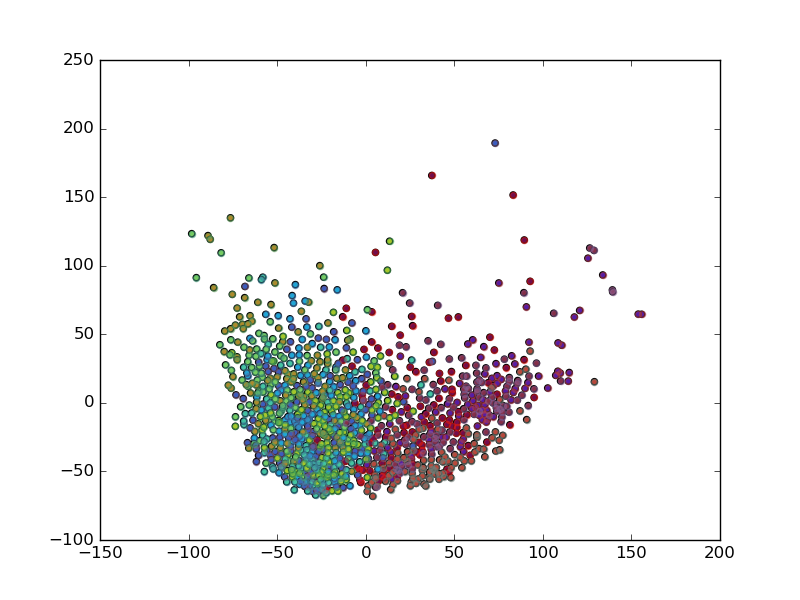
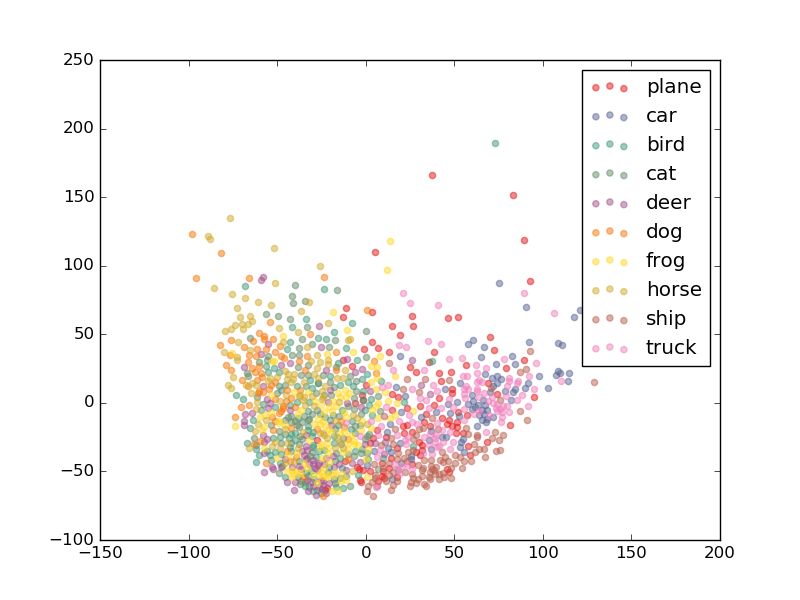
merge

diff --git a/practical_3/train_model.py b/practical_3/train_model.py
@@ -313,30 +313,28 @@ def feature_extraction():
         print("Calculating TSNE")
         tnse = TSNE(n_components=2, init='pca', random_state=0)
         pca = tnse.fit_transform(fcl2)
-        print(pca.shape)
-        print(logits.shape)        
         prediction = np.argmax(logits, axis=1)
-        print(pca)
-        print(prediction) 
         fig = plt.figure()
-        print(np.max(prediction))
-        print(np.min(prediction))
-        plt.scatter(pca[:,0],pca[:,1], c=prediction)
-        
         
              
-        #class_points = pca[prediction == 1]
+        #class_points = pca[prediction == ]
         
         #plt.scatter(class_points[:,0], class_points[:,1], color='b'  , alpha=0.5)
         #class_points = pca[prediction == 2]
         
         #plt.scatter(class_points[:,0], class_points[:,1], color='r'  , alpha=0.5)
+      
+        classes = ['plane', 'car', 'bird', 'cat', 'deer', 'dog', 'frog', 'horse', 'ship', 'truck']
+        plots = []
         for i in range(Convnn.n_classes):
             class_points = pca[prediction == i]
-            plt.scatter(class_points[:,0], class_points[:,1], color=plt.cm.Set1(i*10), alpha=0.5)
+            plot = plt.scatter(class_points[:,0], class_points[:,1], color=plt.cm.Set1(i*25), alpha=0.5)
+            plots.append(plot)
 
+        plt.legend(tuple(plots), tuple(classes))
         plt.savefig('images/tsne_plot.png')
         
+
         #for label in range(Convnn.n_classes):
         
         #    class_pc = pc[prediction == label]
